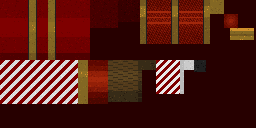
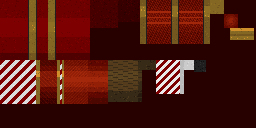
Lava sprayer: rebuilt barrel with lava conduit, test updates
Refresh the lavagun viewmodel barrel paint (lava conduit between brass
rings, glowing nozzle), add the platform gun comparison shot to the lava
tool test and extend the wheel test to include the axe step.

Assisted-by: Claude:claude-sonnet-5-5

Changed region(s): [[0.125, 0.4688, 0.3438, 0.8125], [0.9375, 0.2812, 0.9688, 0.3125]]

diff --git a/Misc/workshop_assets/gen/assets.py b/Misc/workshop_assets/gen/assets.py
@@ -144,7 +144,10 @@ def lavagun():
     R_bar = (0, 60, 88, 44); R_in = (88, 60, 20, 44); R_plug = (224, 14, 14, 14)
     rb = lambda x, r: ngon(x, 0, Z0, r, r, 8); nz8 = side_nz(yz(rb(0, 1)))
     def stripes(a, f, j, ix, iy):
-        if a > 0.9: return m.pick(BRASS, 0.5 + 0.3 * (j == 2), 0.2)
+        # candy stripes, then a glass conduit full of lava between brass rings, then a white-hot nozzle
+        if a > 0.73: return (m.pick(LAVA, 0.55 + 0.4 * (nz8[j] * 0.5 + 0.5) + 0.1 * ((ix + iy) % 3 == 0), 0.2), True)
+        if abs(a - 0.73) < 0.02 or abs(a - 0.43) < 0.02 or abs(a - 0.67) < 0.02: return m.pick(BRASS, 0.6 + 0.3 * (j == 2), 0.2)
+        if 0.45 <= a < 0.67: return (m.pick(LAVA, 0.15 + 0.6 * (nz8[j] * 0.5 + 0.5) + 0.15 * ((ix * 3 + iy) % 4 == 0), 0.3), True)
         return m.pick(WHITE, 0.8, 0.3) if ((ix + iy) // 5) % 2 else m.pick(BERRY, 0.7, 0.3)
     m.paint_loft(R_bar, nz8, BERRY, extra=stripes, noise=0.2)
     m.paint_loft(R_in, nz8, LAVA, cols=[(0.0, 1.0, LAVA[2:], True)], noise=0.3, fb=True)
